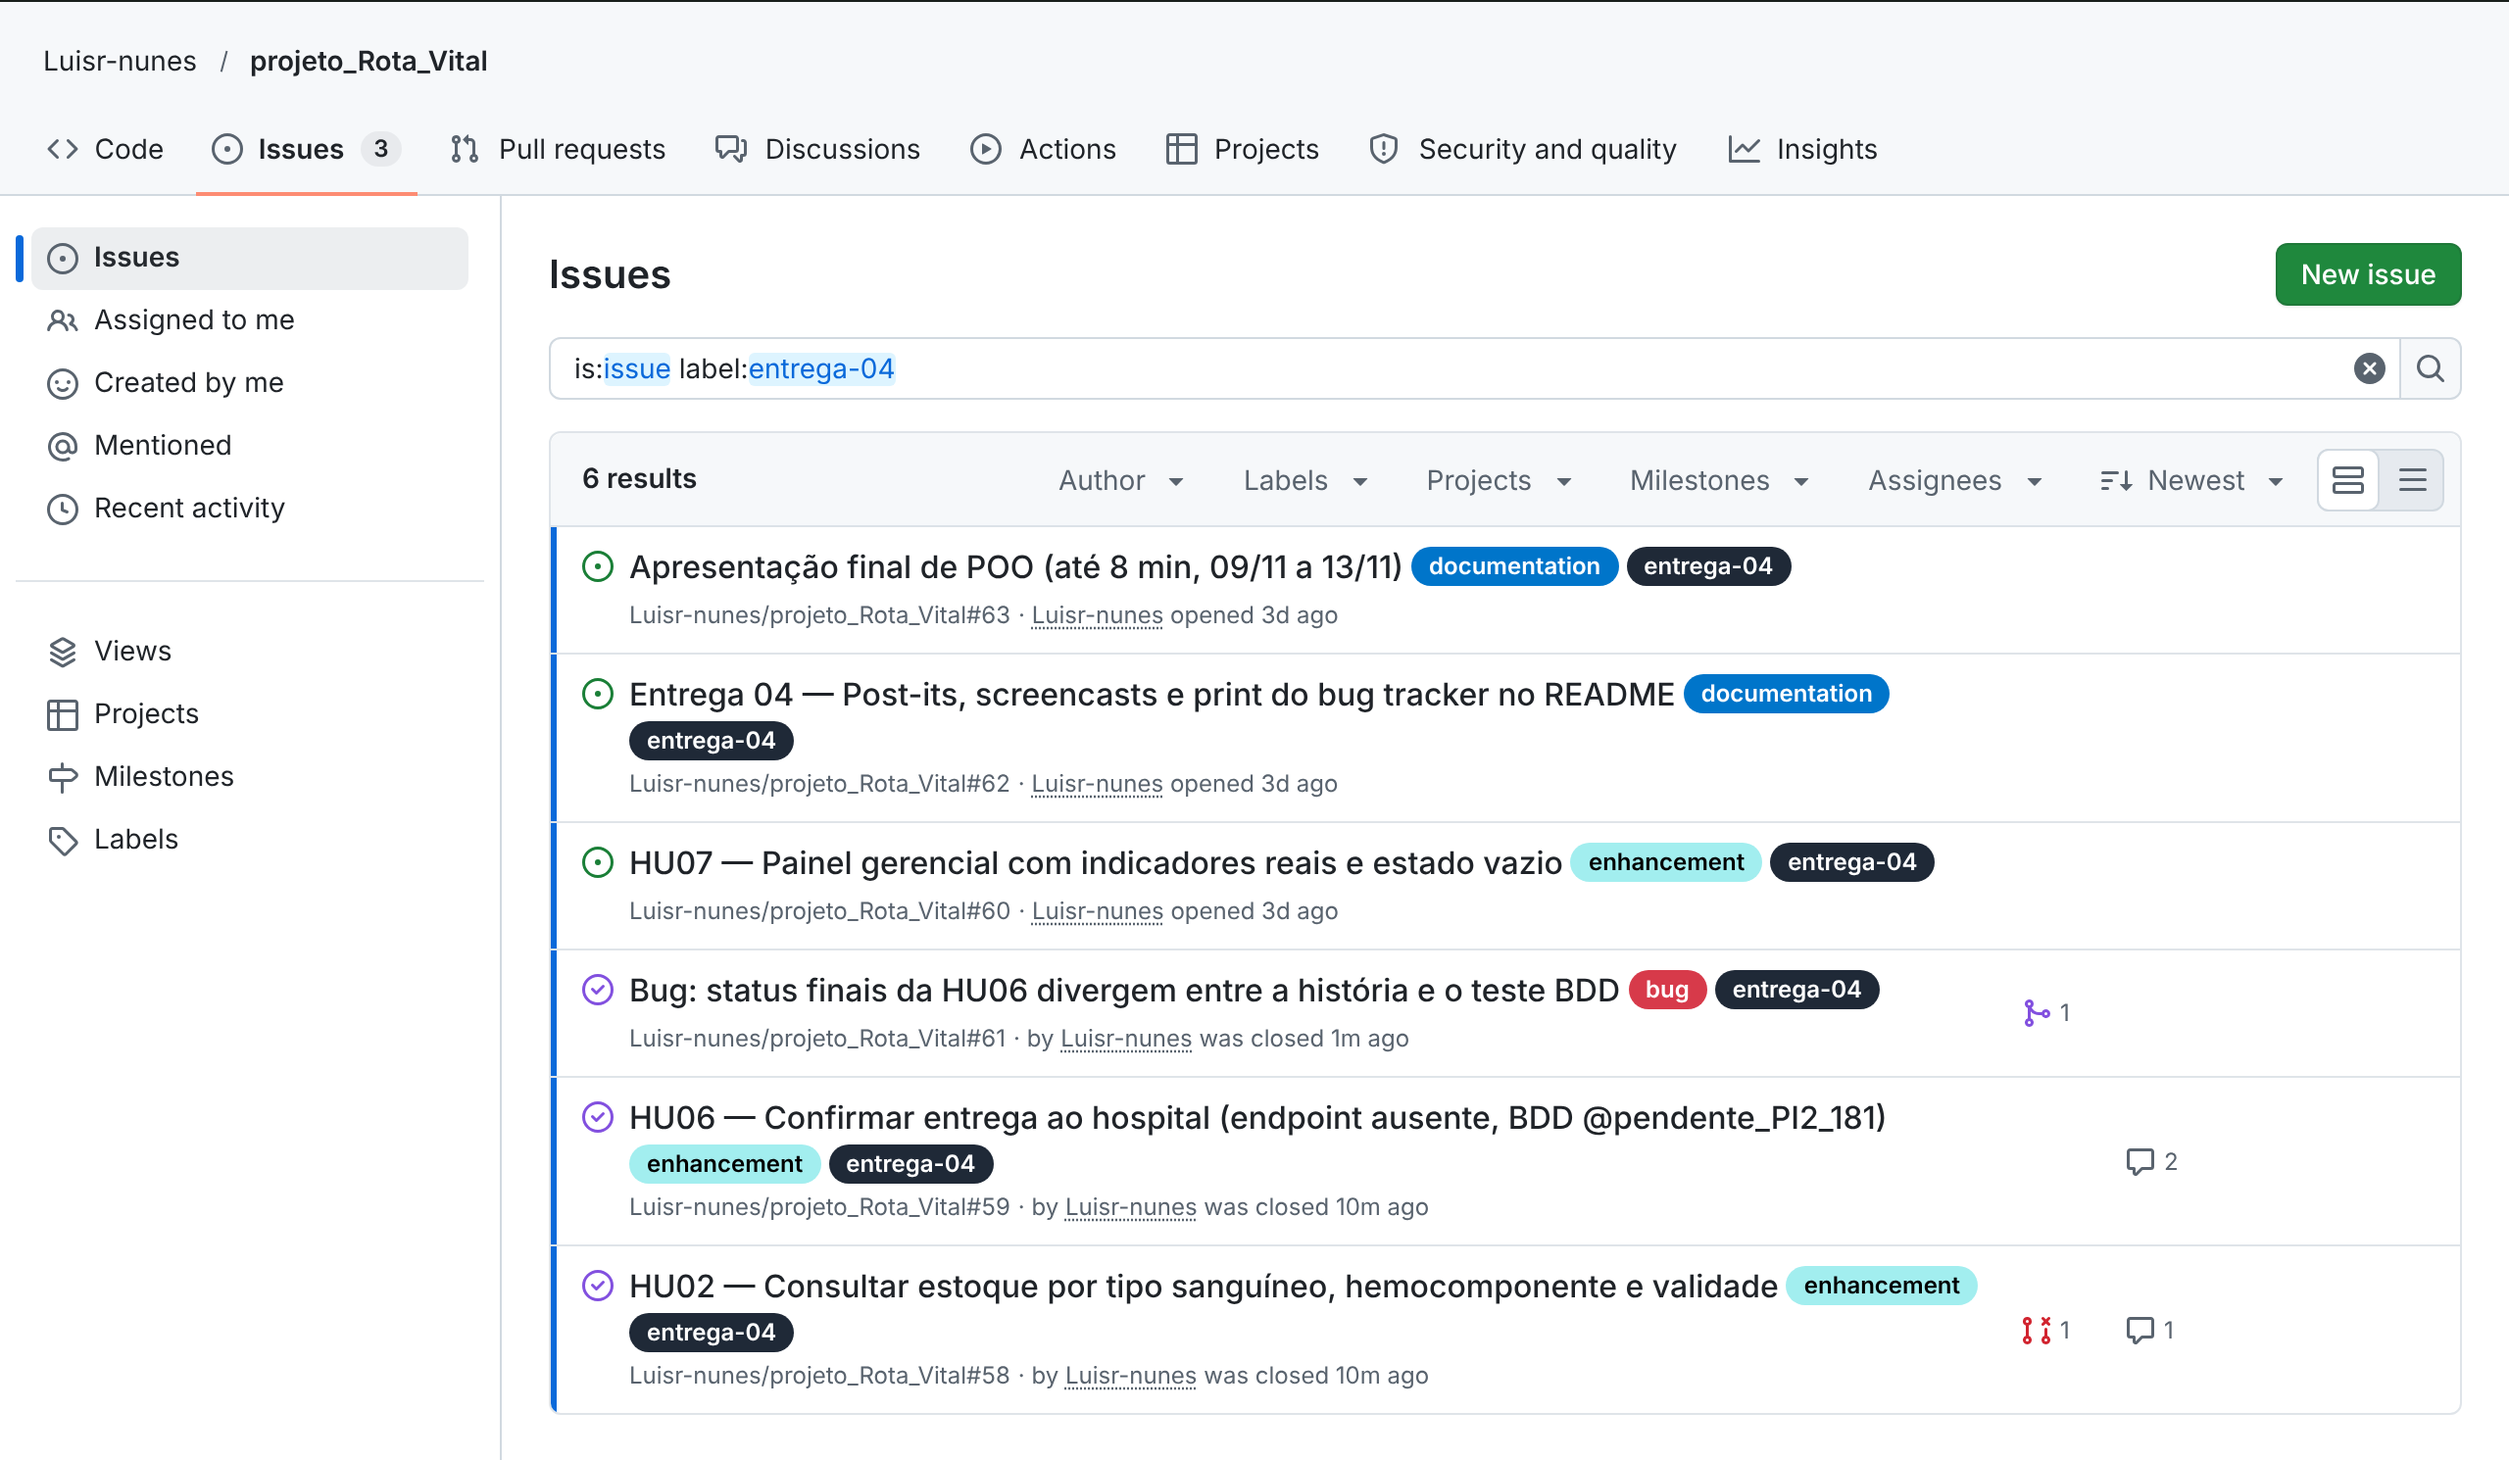
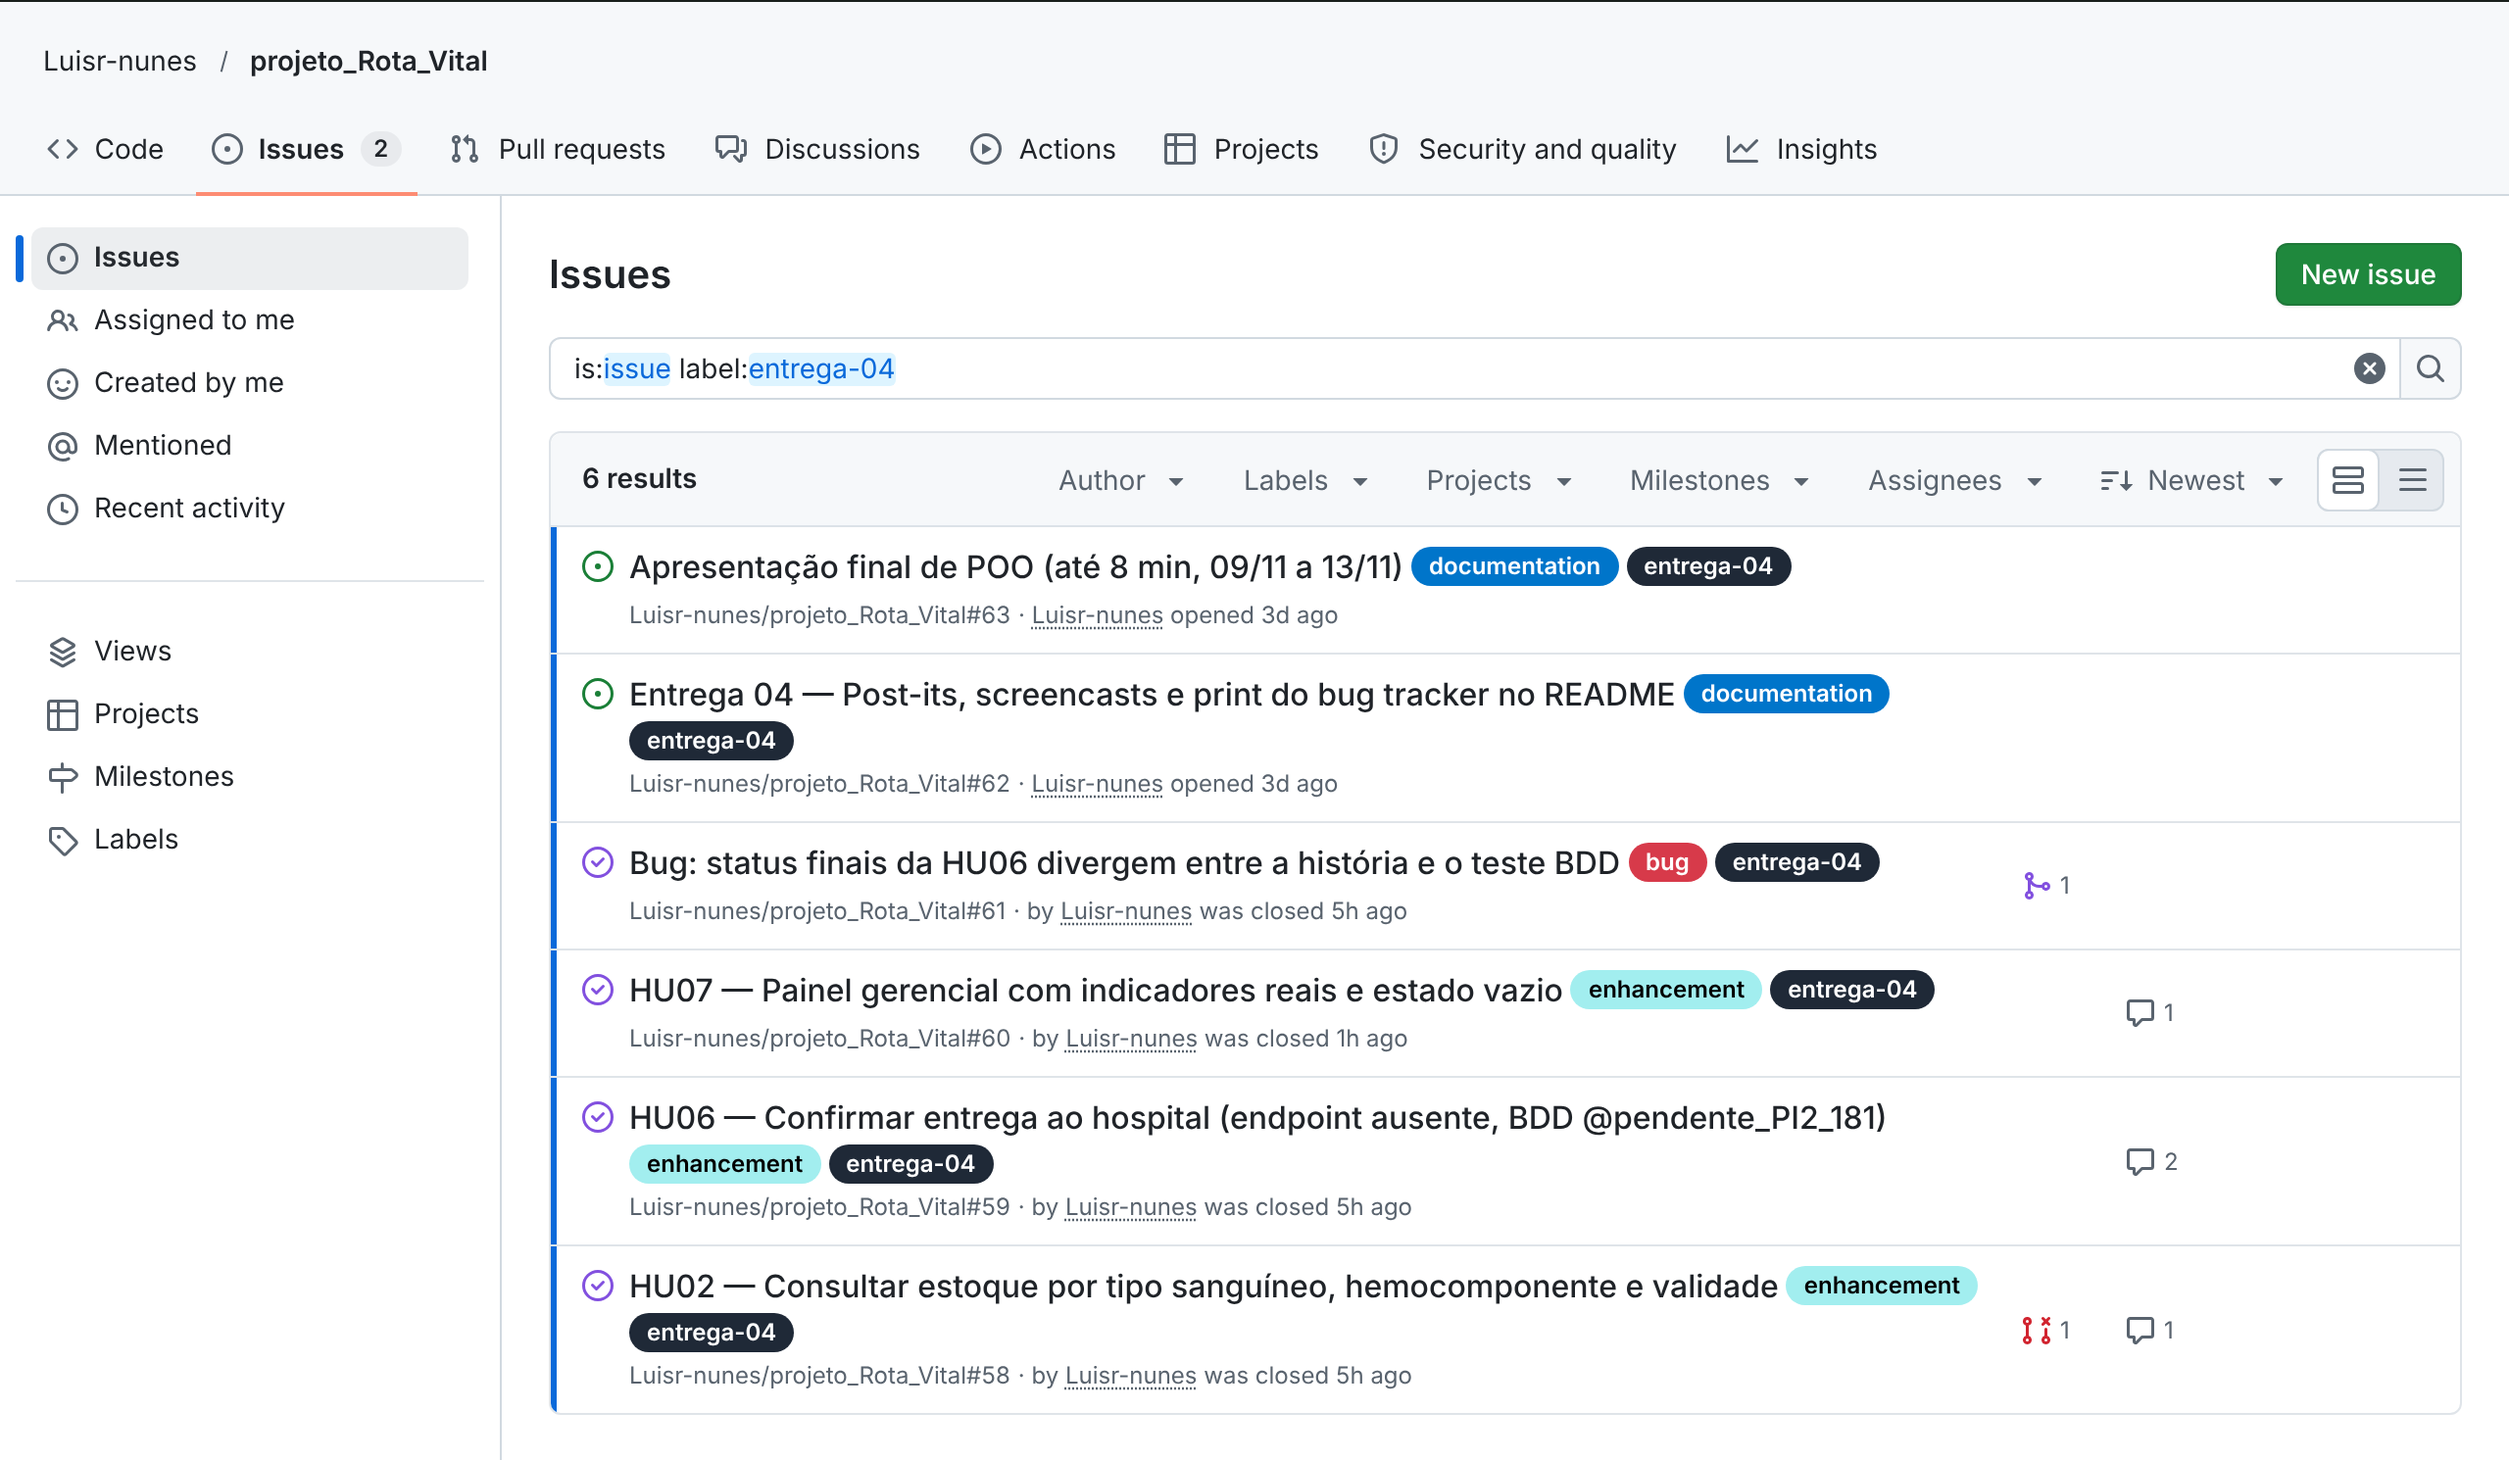
docs(readme): marca screencast de código e atualiza print do bug tracker da Entrega 04

diff --git a/README.md b/README.md
@@ -547,8 +547,8 @@ Histórias completas com cenários BDD em [`doc/historias_de_usuario.md`](doc/hi
 
 - [x] **Screencast do sistema** — HU02, HU08 e HU06 rodando, mais o painel gerencial (HU07), com legenda embutida ([roteiro](doc/apresentacao/roteiro-demo.md))
   - [Assistir no YouTube](https://www.youtube.com/watch?v=aqQ9OXByu1w)
-- [ ] **Screencast do código** — Explicação do código de HU02, HU08 e HU06, com legenda ou áudio
-  - [Assistir no YouTube](https://youtu.be/elh8MVJKxs4) <!-- inserir link -->
+- [x] **Screencast do código** — Explicação do código de HU02, HU08 e HU06, com legenda ou áudio
+  - [Assistir no YouTube](https://youtu.be/elh8MVJKxs4)
 
 ---
 
